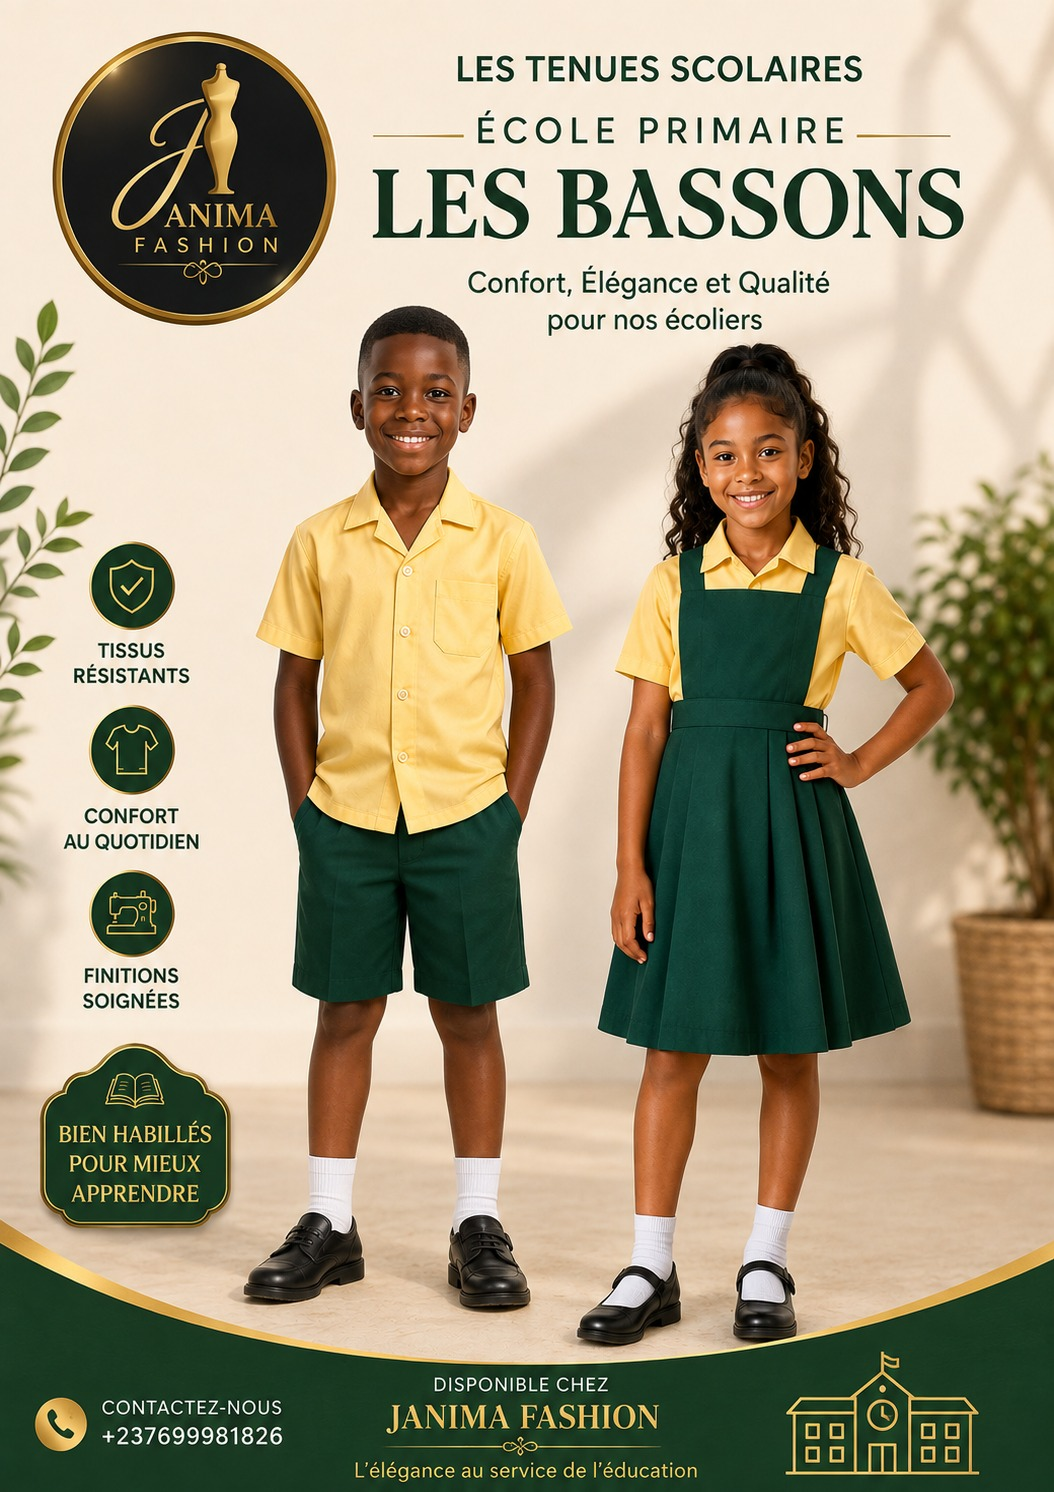
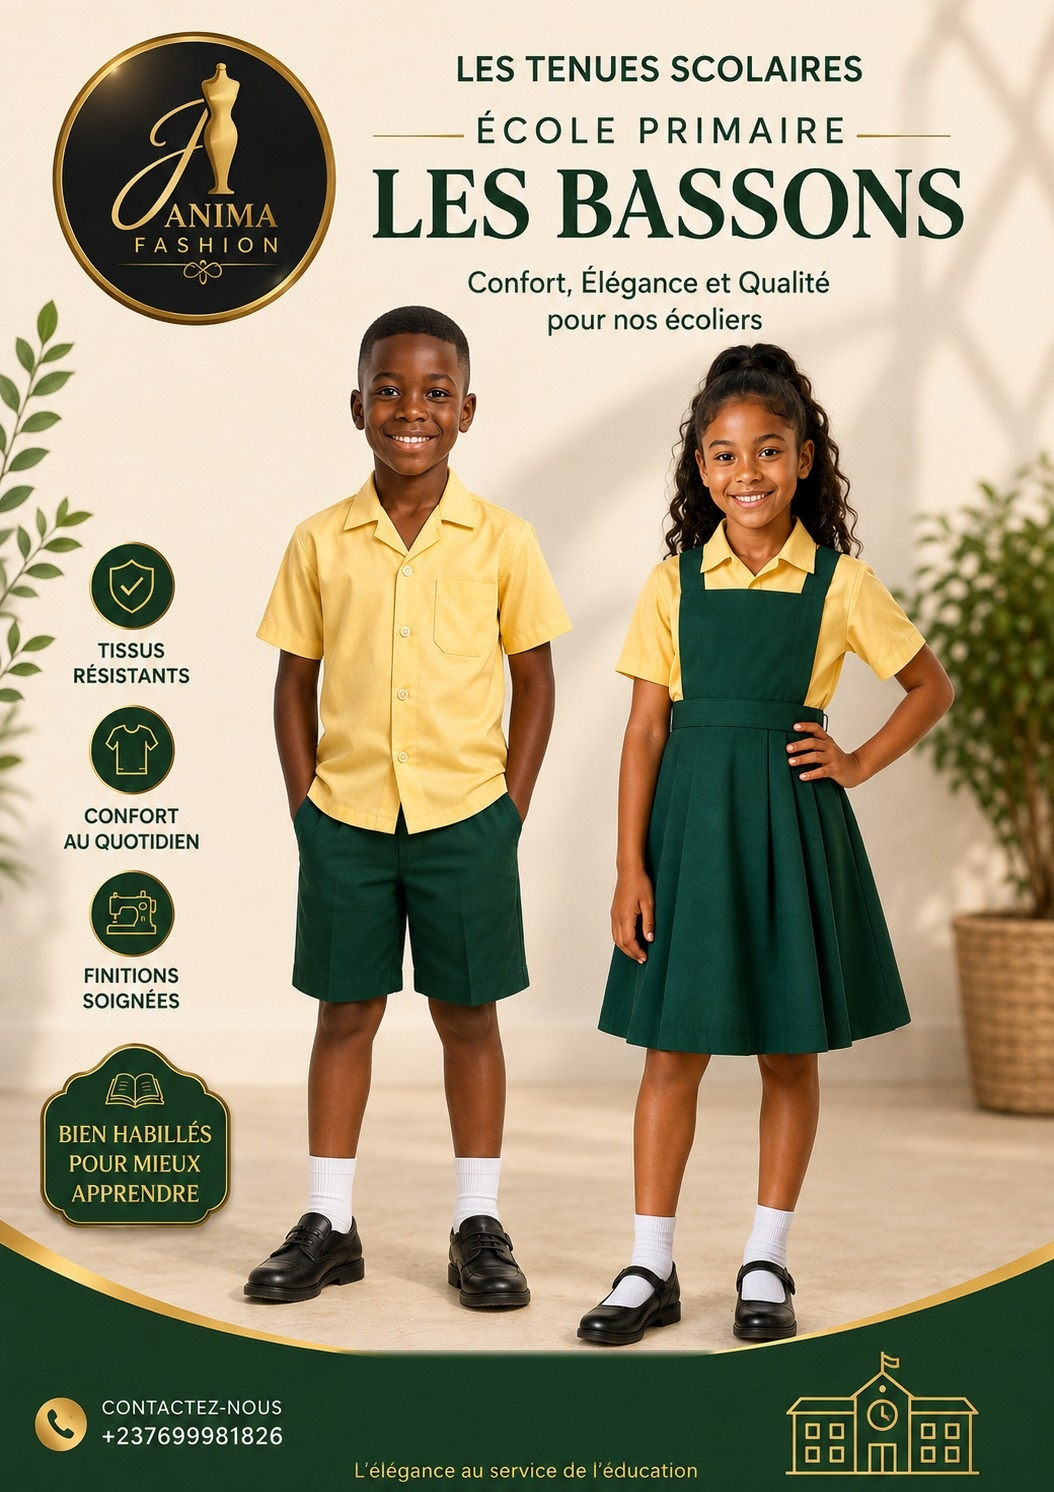
update

Changed region(s): [[0.334, 0.8941, 0.6679, 0.9866]]

diff --git a/app/page.tsx b/app/page.tsx
@@ -4,7 +4,17 @@ import { getDriveProducts } from "../lib/drive";
 
 export default async function Home() {
   const driveProducts = await getDriveProducts();
-  const driveSlides: HeroSlide[] = driveProducts.slice(0, 2).map((product) => ({
+  const womenDressId = "10S9xf-7HzAicgSlm5B3rR-seOYhxflXz";
+  const womenDress = driveProducts.find((product) =>
+    product.imageUrl.includes(womenDressId)
+  );
+  const otherDriveProducts = driveProducts.filter(
+    (product) => product !== womenDress
+  );
+  const driveShowcase = [womenDress, otherDriveProducts[0]].filter(
+    (product): product is (typeof driveProducts)[number] => Boolean(product)
+  );
+  const driveSlides: HeroSlide[] = driveShowcase.map((product) => ({
     src: product.imageUrl,
     alt: product.imageAlt,
     heading: `Collection 01 — ${product.name || "Création exclusive"}`,
@@ -23,7 +33,7 @@ export default async function Home() {
     {
       src: "/basson.jpeg",
       alt: "Tenues scolaires Les Bassons par Janima Fashion",
-      heading: "Tenues scolaires — Les Bassons",
+      heading: "Tenues scolaires",
       ctaLabel: "Voir les tenues scolaires",
       ctaHref: "/catalogue?cat=tenues",
     },
@@ -54,7 +64,7 @@ export default async function Home() {
           </a>
         </nav>
 
-        <HeroCarousel slides={slides} eyebrow="Janima Fashion · Douala, Cameroun" />
+        <HeroCarousel slides={slides} />
       </div>
 
       <section

diff --git a/app/globals.css b/app/globals.css
@@ -51,11 +51,13 @@ a {
 .brand-mark {
   align-items: center;
   display: inline-flex;
-  font-size: 1.1rem;
-  font-weight: 700;
+  font-family: var(--font-display), serif;
+  font-size: 1.35rem;
+  font-style: italic;
+  font-weight: 500;
   gap: 0.55rem;
-  letter-spacing: 0.08em;
-  text-transform: uppercase;
+  letter-spacing: 0.01em;
+  text-transform: none;
 }
 
 .brand-symbol {
@@ -223,8 +225,24 @@ h1 {
   object-fit: contain;
   object-position: center;
   position: relative;
+  transform: scale(1);
+  transform-origin: center;
   width: 100%;
   z-index: 1;
+}
+
+.hero-slide-frame-active .hero-slide {
+  animation: hero-slide-zoom 7000ms cubic-bezier(0.22, 1, 0.36, 1) forwards;
+}
+
+@keyframes hero-slide-zoom {
+  from {
+    transform: scale(1);
+  }
+
+  to {
+    transform: scale(1.07);
+  }
 }
 
 .hero-overlay-copy {
@@ -713,11 +731,6 @@ h1 {
 .product-image:hover .product-view-cue {
   opacity: 1;
   transform: translateY(0);
-}
-
-.product-card .product-name {
-  font-size: 1.15rem;
-  margin: 1.1rem 0 0;
 }
 
 .product-details {

diff --git a/app/components/HeroCarousel.tsx b/app/components/HeroCarousel.tsx
@@ -13,7 +13,7 @@ export type HeroSlide = {
 
 type HeroCarouselProps = {
   slides: HeroSlide[];
-  eyebrow: string;
+  eyebrow?: string;
 };
 
 const AUTOPLAY_MS = 5500;
@@ -108,11 +108,13 @@ export function HeroCarousel({ slides, eyebrow }: HeroCarouselProps) {
       })}
 
       <div className="hero-overlay-copy" key={active.src}>
-        <p className="hero-overlay-eyebrow">
-          <span className="hero-overlay-dash" aria-hidden="true" />
-          {eyebrow}
-          <span className="hero-overlay-dash" aria-hidden="true" />
-        </p>
+        {eyebrow ? (
+          <p className="hero-overlay-eyebrow">
+            <span className="hero-overlay-dash" aria-hidden="true" />
+            {eyebrow}
+            <span className="hero-overlay-dash" aria-hidden="true" />
+          </p>
+        ) : null}
         <h1 className="hero-overlay-title">{active.heading}</h1>
         <Link className="hero-overlay-cta" href={active.ctaHref}>
           {active.ctaLabel}

diff --git a/app/portfolio/page.tsx b/app/portfolio/page.tsx
@@ -4,7 +4,7 @@ import { getDriveProducts } from "../../lib/drive";
 export const metadata = {
   title: "Portfolio | Janima Fashion",
   description:
-    "Le portfolio de Janima Fashion : silhouettes, savoir-faire et réalisations à Douala.",
+    "Le portfolio de Janima Fashion : silhouettes, savoir-faire et réalisations",
 };
 
 export default async function PortfolioPage() {

diff --git a/app/catalogue/page.tsx b/app/catalogue/page.tsx
@@ -74,7 +74,6 @@ export default async function CataloguePage({
       </div>
 
       <header className="catalogue-header">
-        <p className="eyebrow">Janima Fashion · Douala, Cameroun</p>
         <h1>Les pièces de la collection.</h1>
         <p className="catalogue-intro">
           Des silhouettes pensées avec caractère, entre gestes traditionnels et

diff --git a/app/components/ProductCard.tsx b/app/components/ProductCard.tsx
@@ -17,7 +17,6 @@ export function ProductCard({ product }: ProductCardProps) {
           Voir la pièce
         </span>
       </div>
-      {product.name ? <p className="product-name">{product.name}</p> : null}
     </article>
   );
 }
